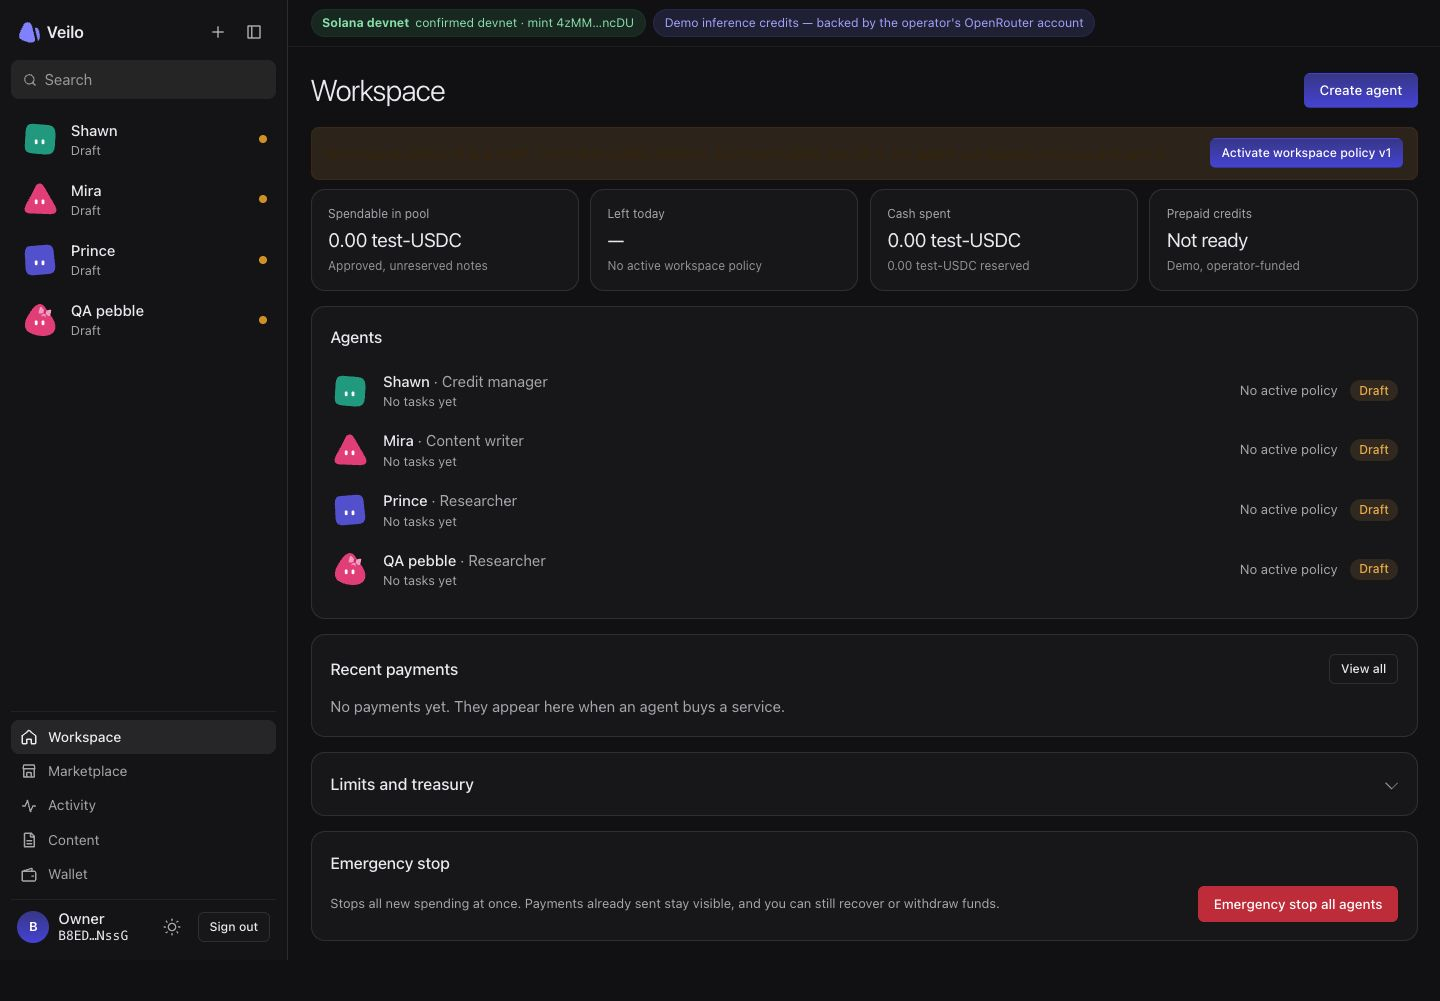
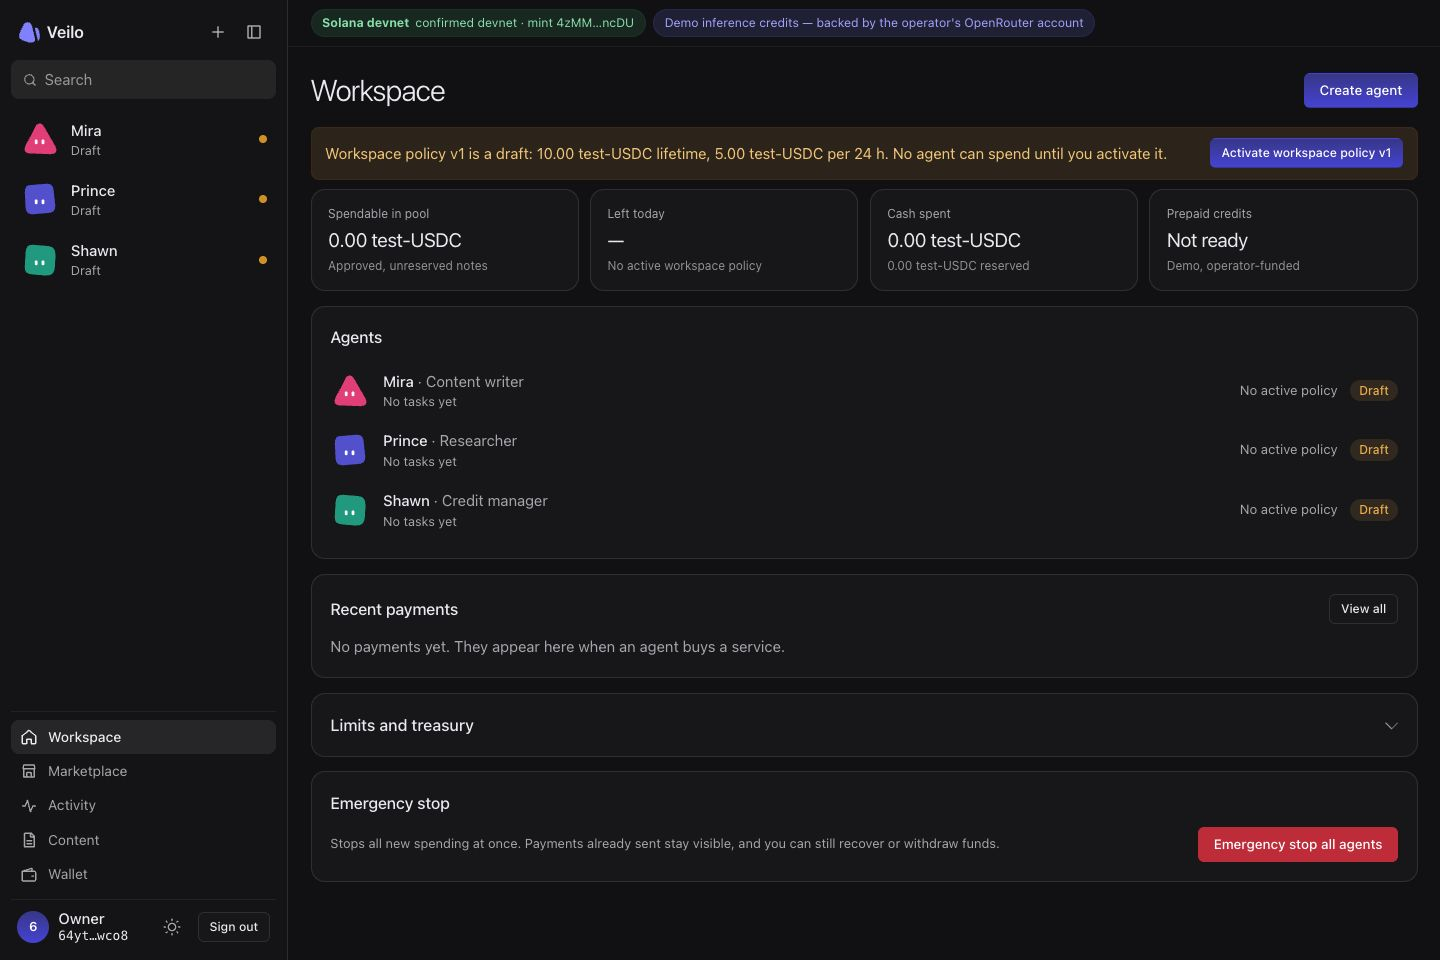
fix(dashboard): keep warning and role text readable in dark mode

diff --git a/apps/dashboard/app/globals.css b/apps/dashboard/app/globals.css
@@ -26,6 +26,8 @@
   color-scheme: light;
   --accent: #4b4ddb;
   --accent-ink: #3537b8;
+  --role-content-ink: #c2357a;
+  --role-credit-ink: #0f7a6c;
   --accent-soft: #eeeffe;
   --grad: linear-gradient(180deg, #0b0b12 0%, #1b1c45 45%, #3d3f93 100%);
   --ok: #0f6b3a;
@@ -68,6 +70,8 @@
     --fill-2: rgba(255, 255, 255, 0.12);
     --accent: #8b8dff;
     --accent-ink: #a9abff;
+    --role-content-ink: #f28dbd;
+    --role-credit-ink: #66d6bf;
     --accent-soft: rgba(139, 141, 255, 0.14);
     --grad: linear-gradient(180deg, #3d3f93 0%, #4b4ddb 100%);
     --ok: #5fd08f;
@@ -110,6 +114,8 @@
   --fill-2: rgba(255, 255, 255, 0.12);
   --accent: #8b8dff;
   --accent-ink: #a9abff;
+  --role-content-ink: #f28dbd;
+  --role-credit-ink: #66d6bf;
   --accent-soft: rgba(139, 141, 255, 0.14);
   --grad: linear-gradient(180deg, #3d3f93 0%, #4b4ddb 100%);
   --ok: #5fd08f;
@@ -789,7 +795,7 @@ h3 {
 .notice-warn {
   background: var(--warn-bg);
   border-color: rgba(122, 75, 0, 0.2);
-  color: #3d2600;
+  color: var(--warn-ink);
 }
 
 .notice-error {
@@ -2643,11 +2649,11 @@ main:has(.agent-view) {
 }
 
 .featured-content .featured-name {
-  color: #c2357a;
+  color: var(--role-content-ink);
 }
 
 .featured-credit_manager .featured-name {
-  color: #0f7a6c;
+  color: var(--role-credit-ink);
 }
 
 .featured-sub {

diff --git a/docs/design/pr-review.md b/docs/design/pr-review.md
@@ -16,6 +16,8 @@ Astra at low reasoning effort reviewed the branch against `main`, then reviewed 
 
 The real-backend UI pass also found an empty researcher/content role configuration displaying “checks every undefined s.” Policy summaries now render top-up rules only when all displayed credit-manager fields are valid. The new social card also uses the configured dashboard origin for its absolute metadata URL.
 
+Screenshot inspection identified hardcoded light-theme colours on warning text and two marketplace role names. Warnings now use `--warn-ink`; role names use dedicated tokens defined for light, system-dark and explicit-dark modes. Astra reviewed the contrast follow-up without finding a new source regression.
+
 The existing PR documentation failure was reproduced from its CI log: the asset brief linked outside VitePress's published documentation root. That link now targets the permanent GitHub source revision; strict dead-link checking remains enabled. The brief also points readers to the delivered assets rather than calling all of them placeholders.
 
 ## Verification
@@ -30,6 +32,7 @@ The existing PR documentation failure was reproduced from its CI log: the asset 
 - Actual create-agent flow: edit limits and approval tier, Review, Back, confirm preservation, create a draft, open its real detail URL, and confirm the persisted policy. No policy was activated.
 - Actual avatar flow: select colour and shape independently; Woman adds the ribbon, Man and Non-binary do not; save and reload the draft-agent page. Saved appearance persisted with no mobile overflow.
 - Final targeted checks after the policy-summary fix covered all three roles at both widths and themes. Only the credit manager displays a top-up rule; no `undefined` text remains. No browser console errors were captured on the final workspace view.
+- Rendered contrast checks after the colour fix covered 72 warning/role-name samples across 36 targeted page/width/theme views, compositing each element's actual background layers. Minimum contrast was **5.14:1 in light** and **7.93:1 in dark**, exceeding 4.5:1 for all sampled text. The review screenshot below shows the corrected warning.
 - The rendered social image URL resolves to the explicitly configured review origin. Production builds should set `VEILO_DASHBOARD_ORIGIN` to their intended dashboard origin, as also required by owner-session/proxy configuration.
 
 ## Coverage boundaries

diff --git a/apps/dashboard/DESIGN.md b/apps/dashboard/DESIGN.md
@@ -37,6 +37,7 @@ All colours are CSS variables in `app/globals.css`. Components never use raw hex
 | `--line` / `--line-2` / `--line-strong` | 12% / 7% / 24% ink | 10% / 6% / 20% white | Borders, dividers |
 | `--fill` / `--fill-2` / `--hover` / `--selected` | ink tints | white tints | Chips, hover, selected rows |
 | `--accent` / `--accent-ink` / `--accent-soft` | `#4b4ddb` / `#3537b8` / `#eeeffe` | `#8b8dff` / `#a9abff` / 14% accent | Focus, links, selected chips |
+| `--role-content-ink` / `--role-credit-ink` | `#c2357a` / `#0f7a6c` | `#f28dbd` / `#66d6bf` | Marketplace role names |
 | `--grad` | `#0b0b12 → #1b1c45 → #3d3f93` | `#3d3f93 → #4b4ddb` | Primary buttons, CTA band |
 | `--ok` / `--warn` / `--danger` (+ `-bg`, `-ink`) | green / amber / red | lighter tints | Status pills and notices |
 | `--danger-solid` | `#b4232f` | `#c9303d` | Destructive solid buttons |
